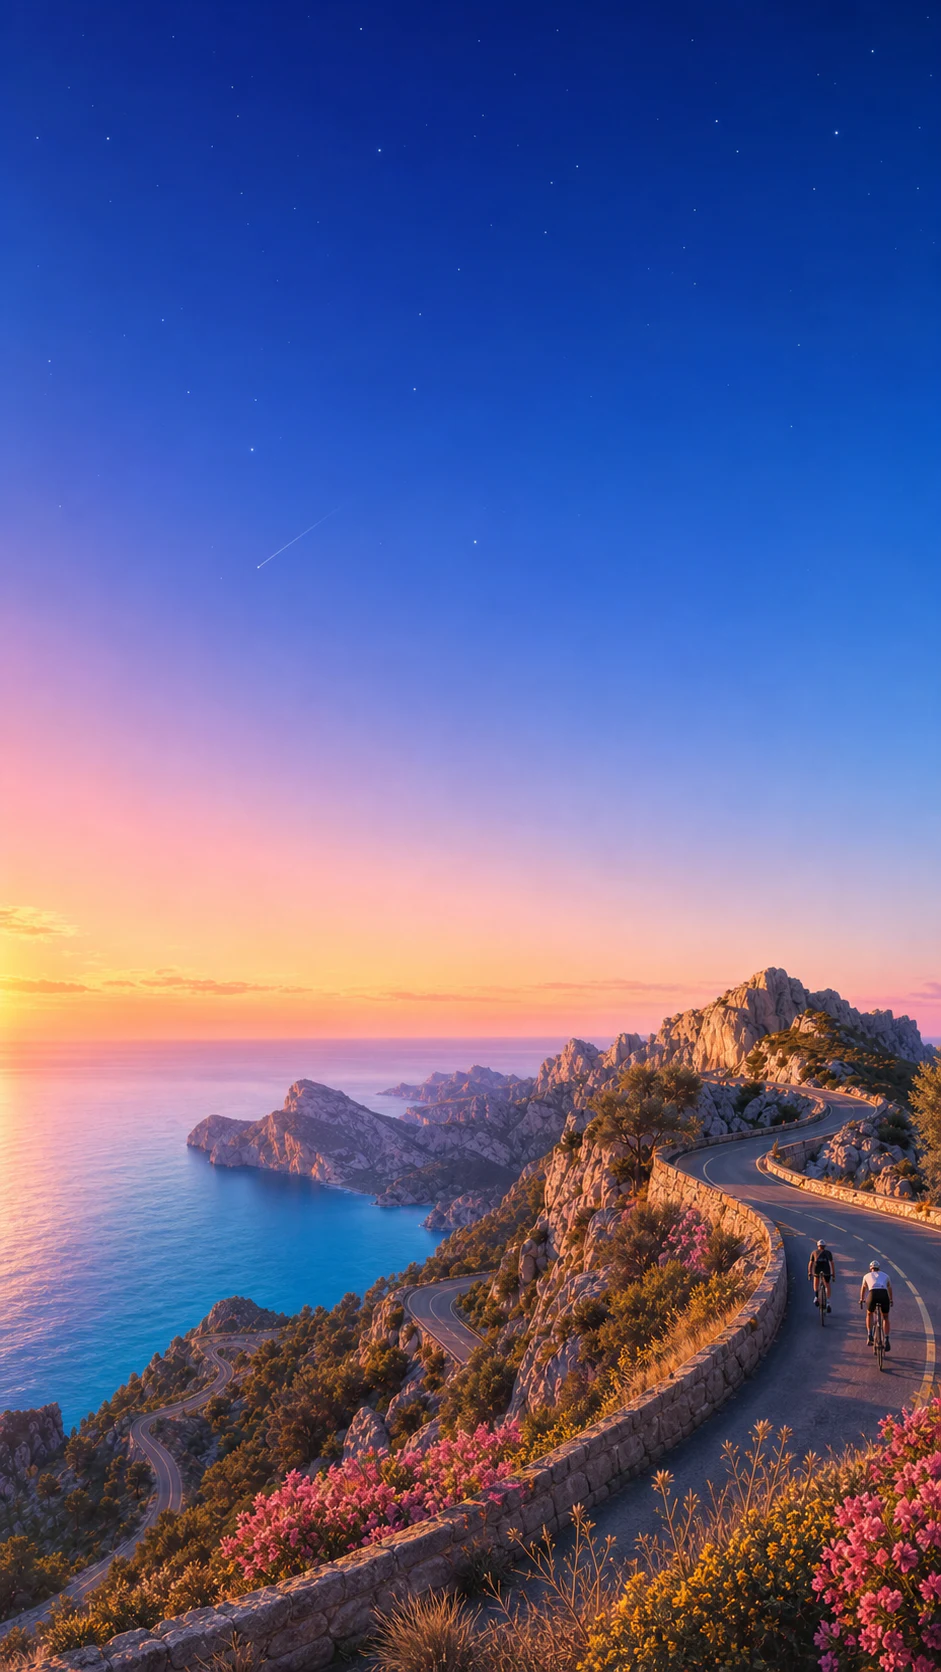
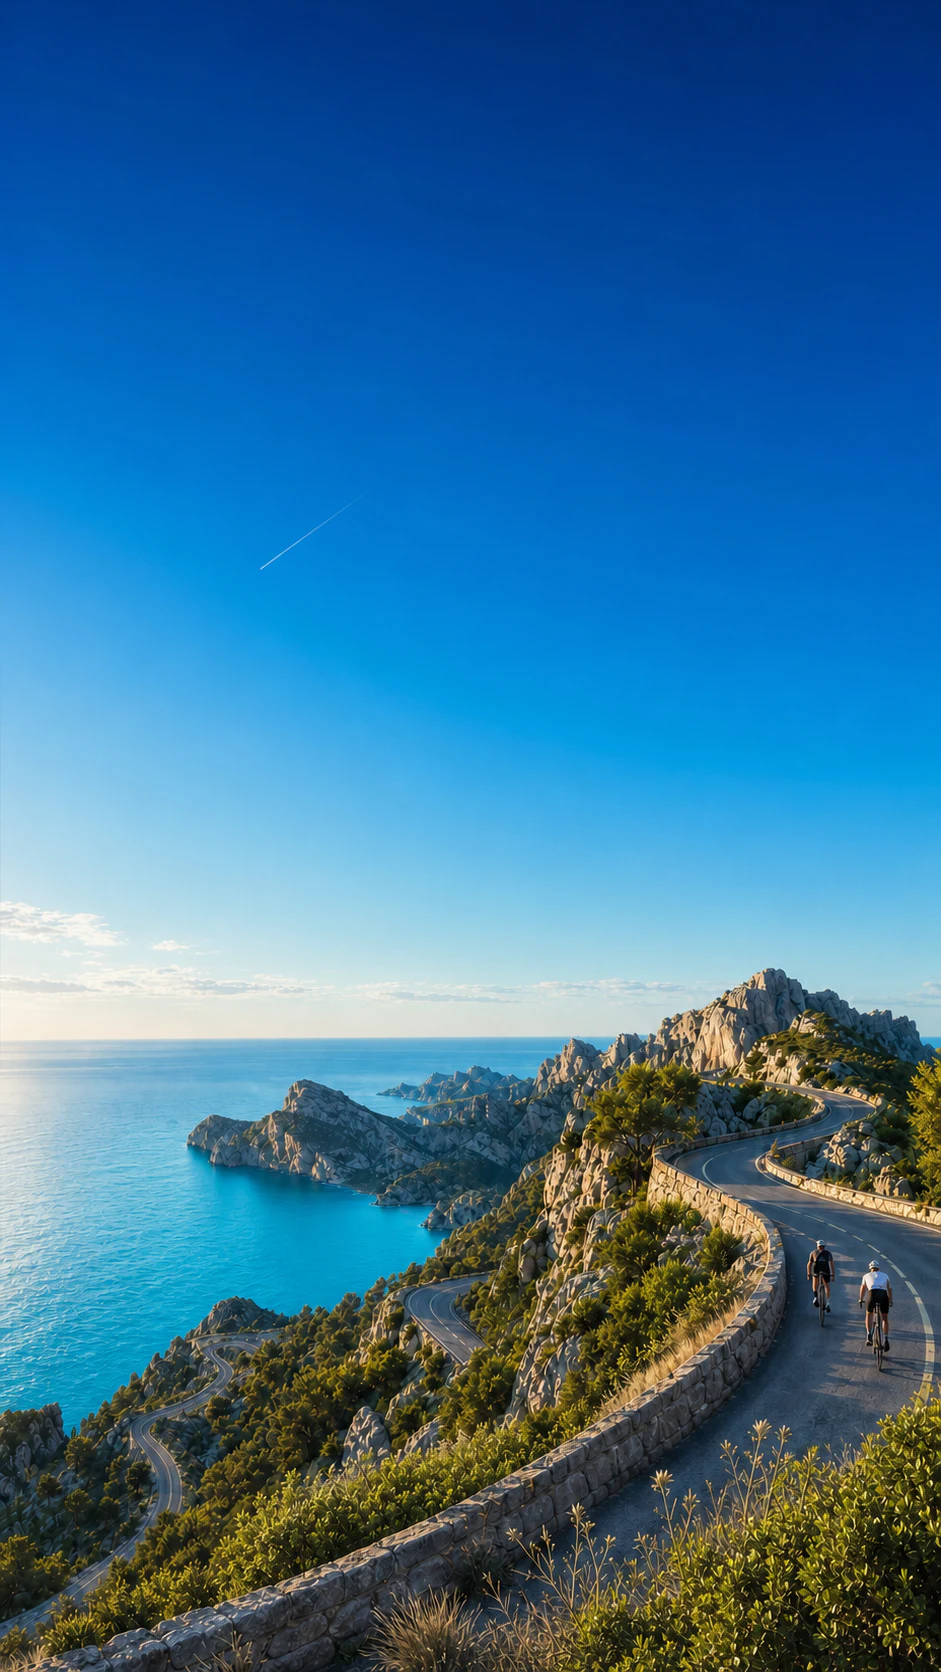
Shift atlas palette to Mallorca blues and greens

diff --git a/src/styles.css b/src/styles.css
@@ -10,29 +10,31 @@
 @import "@fontsource/source-sans-3/latin-700.css";
 
 :root {
-  color: #183f43;
-  background: #f6eee1;
+  color: #143f3d;
+  background: #edf2e9;
   font-family: "Source Sans 3", Arial, sans-serif;
   font-synthesis: none;
   text-rendering: optimizeLegibility;
-  --paper: #fffaf2;
-  --paper-deep: #f1e6d4;
-  --surface: #fffdf8;
-  --ink: #183f43;
-  --ink-deep: #10343a;
-  --muted: #607679;
-  --rule: rgba(24, 63, 67, 0.16);
-  --route: #d97855;
+  --page: #edf2e9;
+  --paper: #fff9f0;
+  --paper-deep: #e4e9dc;
+  --surface: #fffcf6;
+  --ink: #143f3d;
+  --ink-deep: #0b3437;
+  --muted: #56706d;
+  --rule: rgba(20, 63, 61, 0.16);
+  --route: #b25a3b;
   --profile: #f2c85b;
-  --sea: #dceded;
-  --sea-deep: #2f77a0;
-  --turquoise: #55b8b0;
-  --sky: #9ccdd7;
-  --sage: #aeb99b;
-  --blue: #2f77a0;
-  --green: #6e7d48;
-  --danger: #b84e76;
-  --focus: #f2c85b;
+  --sea: #d7efec;
+  --sea-deep: #086f91;
+  --turquoise: #22b8b0;
+  --sky: #bfe3ec;
+  --sage: #9ab9a4;
+  --blue: var(--sea-deep);
+  --green: #46644d;
+  --hard: #954933;
+  --focus: #0b3437;
+  --focus-on-dark: #f2c85b;
   --page-width: 1240px;
 }
 
@@ -48,7 +50,7 @@ body {
   margin: 0;
   min-width: 320px;
   min-height: 100vh;
-  background: #f6eee1;
+  background: var(--page);
   color: var(--ink);
   -webkit-font-smoothing: antialiased;
 }
@@ -177,6 +179,11 @@ img {
   color: #fff;
 }
 
+.topbar :focus-visible,
+.masthead__title :focus-visible {
+  outline-color: var(--focus-on-dark);
+}
+
 .masthead {
   position: relative;
   display: flex;
@@ -203,8 +210,13 @@ img {
 }
 
 .masthead__veil {
-  background: rgba(8, 41, 67, 0.42);
-  box-shadow: inset 0 -230px 180px -125px rgba(12, 49, 51, 0.58);
+  background: linear-gradient(
+    180deg,
+    rgba(3, 47, 72, 0.58) 0%,
+    rgba(3, 58, 65, 0.52) 56%,
+    rgba(4, 66, 51, 0.46) 100%
+  );
+  box-shadow: inset 0 -230px 180px -125px rgba(5, 62, 48, 0.46);
 }
 
 .masthead__title {
@@ -351,9 +363,9 @@ img {
   z-index: 10;
   margin-top: -235px;
   padding: 54px;
-  border: 12px solid rgba(255, 250, 242, 0.9);
+  border: 12px solid rgba(239, 248, 241, 0.92);
   border-radius: 50px;
-  background: rgba(255, 253, 248, 0.97);
+  background: rgba(255, 252, 246, 0.98);
   box-shadow: 0 38px 90px rgba(24, 63, 67, 0.22), inset 0 0 0 1px rgba(255, 255, 255, 0.9);
   backdrop-filter: blur(20px) saturate(115%);
   scroll-margin-top: 24px;
@@ -426,8 +438,8 @@ img {
 
 .stage-row__trigger:hover,
 .stage-row__trigger:focus-visible {
-  border-color: rgba(217, 120, 85, 0.64);
-  box-shadow: 0 20px 42px rgba(24, 63, 67, 0.14);
+  border-color: rgba(34, 184, 176, 0.7);
+  box-shadow: 0 20px 42px rgba(8, 111, 145, 0.16);
   transform: translateY(-3px);
 }
 
@@ -449,8 +461,8 @@ img {
   height: 42px;
   place-items: center;
   border-radius: 15px;
-  background: var(--route);
-  box-shadow: 0 8px 18px rgba(217, 120, 85, 0.28);
+  background: var(--sea-deep);
+  box-shadow: 0 8px 18px rgba(8, 111, 145, 0.28);
   color: #fff;
   font-family: "Barlow Condensed", Arial, sans-serif;
   font-size: 23px;
@@ -468,7 +480,7 @@ img {
 
 .stage-row__summary > strong {
   margin-top: 8px;
-  color: var(--route);
+  color: var(--sea-deep);
   font-family: "Barlow Condensed", Arial, sans-serif;
   font-size: 17px;
   font-weight: 700;
@@ -540,8 +552,8 @@ img {
 }
 
 .difficulty--difficult {
-  background: rgba(184, 78, 118, 0.12);
-  color: var(--danger);
+  background: rgba(149, 73, 51, 0.12);
+  color: var(--hard);
 }
 
 .stage-row__summary em {
@@ -727,7 +739,7 @@ img {
   align-items: center;
   padding: 24px 28px;
   border-bottom: 1px solid var(--rule);
-  background: #edf7f5;
+  background: #e7f4f1;
 }
 
 .stage-dialog__identity {
@@ -744,8 +756,8 @@ img {
   flex: 0 0 auto;
   place-items: center;
   border-radius: 20px;
-  background: var(--route);
-  box-shadow: 0 10px 20px rgba(217, 120, 85, 0.24);
+  background: var(--sea-deep);
+  box-shadow: 0 10px 20px rgba(8, 111, 145, 0.24);
   color: #fff;
   font-family: "Barlow Condensed", Arial, sans-serif;
   font-size: 45px;
@@ -842,8 +854,8 @@ img {
 }
 
 .stage-tabs button[aria-selected="true"] {
-  border-color: var(--route);
-  background: var(--route);
+  border-color: var(--sea-deep);
+  background: var(--sea-deep);
   color: #fff;
 }
 
@@ -954,8 +966,8 @@ img {
 }
 
 .button:hover {
-  border-color: var(--route);
-  background: var(--route);
+  border-color: var(--sea-deep);
+  background: var(--sea-deep);
   color: #fff;
 }
 
@@ -1036,8 +1048,8 @@ img {
 }
 
 .public-route:hover {
-  border-color: var(--route);
-  color: var(--route);
+  border-color: var(--sea-deep);
+  color: var(--sea-deep);
   transform: translateY(-1px);
 }
 
@@ -1067,7 +1079,7 @@ img {
 .data-note {
   margin-top: 24px;
   padding: 18px;
-  background: rgba(85, 184, 176, 0.08);
+  background: rgba(34, 184, 176, 0.1);
 }
 
 .data-note p {
@@ -1180,8 +1192,8 @@ img {
 }
 
 .strava-link:hover {
-  border-color: var(--route);
-  background: var(--route);
+  border-color: var(--sea-deep);
+  background: var(--sea-deep);
   color: #fff;
 }
 
@@ -1364,8 +1376,13 @@ img {
   }
 
   .masthead__veil {
-    background: rgba(7, 38, 68, 0.36);
-    box-shadow: inset 0 -220px 170px -120px rgba(13, 48, 53, 0.56);
+    background: linear-gradient(
+      180deg,
+      rgba(3, 45, 72, 0.6) 0%,
+      rgba(3, 59, 66, 0.54) 58%,
+      rgba(4, 68, 52, 0.48) 100%
+    );
+    box-shadow: inset 0 -220px 170px -120px rgba(4, 68, 52, 0.44);
   }
 
   .kicker {

diff --git a/AGENTS.md b/AGENTS.md
@@ -17,4 +17,4 @@ Build app UI in `src/`. Keep `.openai/hosting.json`, `worker/index.js`, `scripts
 - Present each route map, stage summary, and elevation profile as one clickable stage row; do not split them into parallel map and week sections.
 - Keep the official metric totals primary and show miles and feet as a subtle imperial footnote for every stage.
 - Use the supplied Portal screenshots as the current visual direction: immersive scenic hero, elegant editorial serif headlines, soft cream framed windows, and generous rounded surfaces.
-- Keep the palette Mallorca-specific: Mediterranean cobalt and turquoise, limestone cream, terracotta sunset, bougainvillea coral, citrus yellow, and olive accents.
+- Keep the palette grounded in the supplied Mallorca photos: dominant Mediterranean cobalt/azure, lagoon turquoise and glassy aqua, cypress/pine/olive greens, limestone cream, restrained terracotta, and citrus yellow. Avoid purple, lilac, magenta, pink sunsets, and bougainvillea pink as dominant tones.
